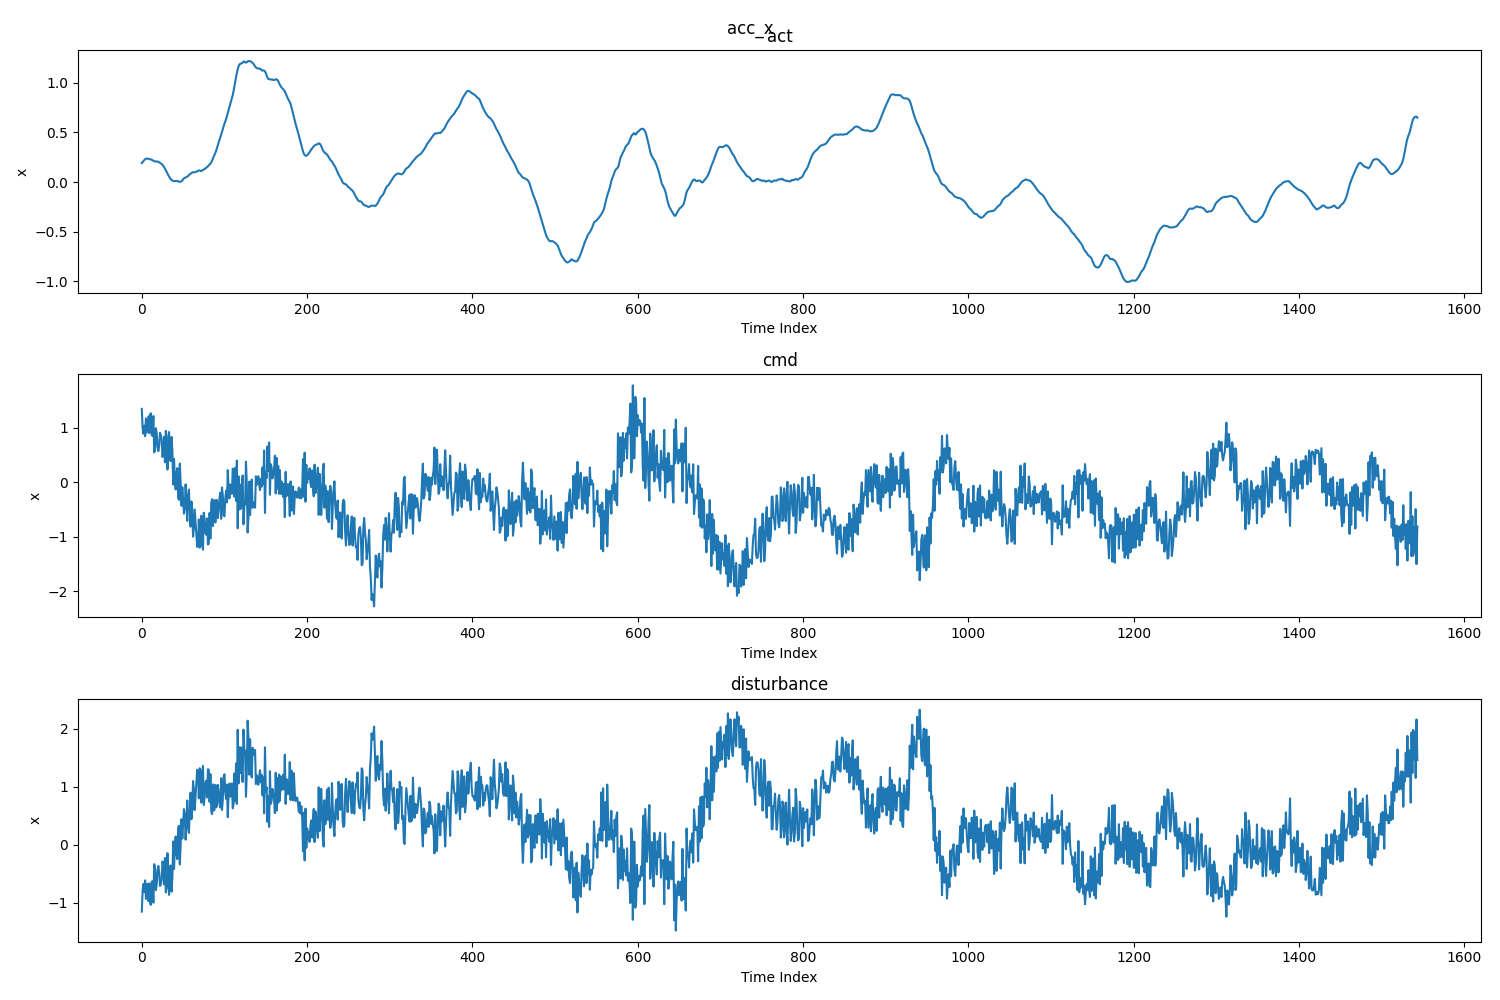
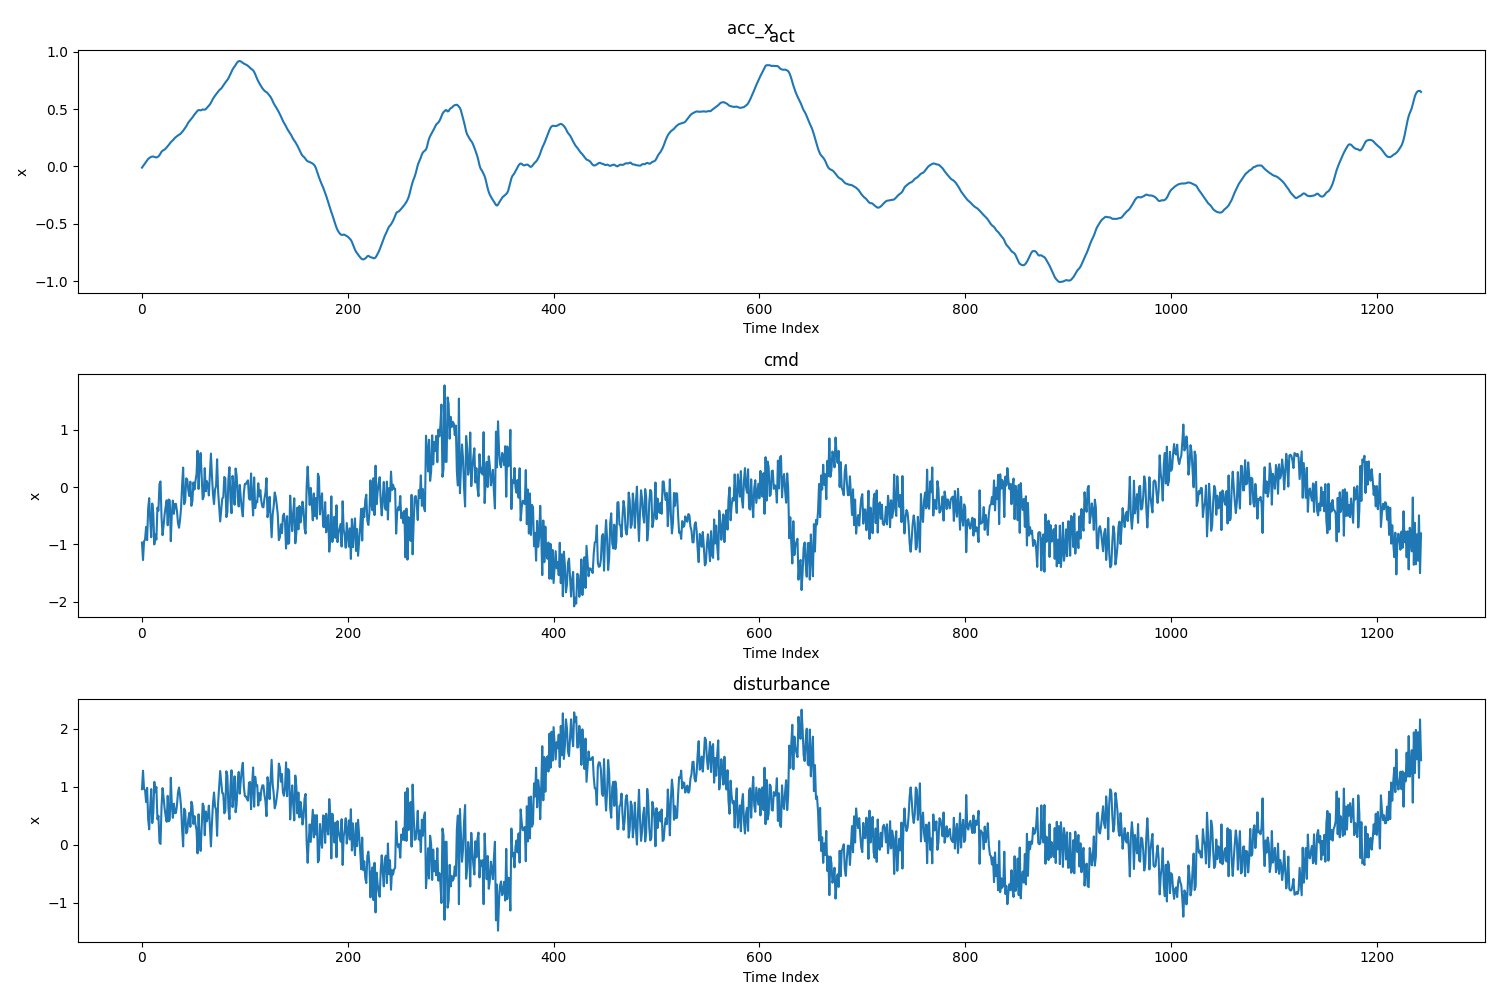
README.md

diff --git a/GP/gp_advanced/simulation/test_tune_controller_gp.py b/GP/gp_advanced/simulation/test_tune_controller_gp.py
@@ -15,9 +15,9 @@ from test_jax_utils import *
 from test_gp_utils import *
 from test_policy import policy
 
-# dynamics_type = 'ideal'
+dynamics_type = 'ideal'
 # dynamics_type = 'noisy'
-dynamics_type = 'gp'
+# dynamics_type = 'gp'
 
 optimizer = 'scipy'
 # optimizer = 'custom_gd'
@@ -191,7 +191,13 @@ def setup_future_reward_func(file_path1, file_path2, file_path3, dynamics_type='
         Performs Gradient Descent
         '''
         states, weights = initialize_sigma_points(X)
-        reward = 0
+        kx = policy_params[0]
+        kv = policy_params[1]
+        w1 = 5
+        w2 = 1
+        # reward = 0 + w1 * (kx-7)**2 + w2 * (kv-4)**2
+        reward = 0 + w1 * (kx)**2 + w2 * (kv)**2
+        # reward = 0
         def body(h, inputs):
             '''
             Performs UT-EC with 6 states
@@ -314,6 +320,9 @@ ax_acc[2].plot( disturbance_means2[2,:], 'r--' )
 ax_acc[0].set_ylabel('X')
 ax_acc[1].set_ylabel('Y')
 ax_acc[2].set_ylabel('Z')
+w1 = 0.2
+w2 = 0.05
+plt. savefig(f'gain_tuning/plots/trajectory_wx{w1}_wv{w2}.png')
 # plt.show()
 
 # params_optimized = train_policy_jaxscipy(state_vector, params_init, gp_train_x, gp_train_y)
@@ -349,7 +358,7 @@ ax.legend()
 ax_acc[0].legend()
 ax_acc[1].legend()
 ax_acc[2].legend()
-
+plt.savefig(f"gain_tuning/plots/component_wx{w1}_wv{w2}.png")
 plt.show()
 
 

diff --git a/GP/gp_advanced/simulation/tanh_slope_plots/tanh.py b/GP/gp_advanced/simulation/tanh_slope_plots/tanh.py
@@ -6,10 +6,10 @@ e = np.linspace(-5, 5, 400)
 
 # Control parameters
 # U_max = 0.2*9.81  # Maximum control value
-U_max = 1
+U_max = 6*0.681
 # k_values = [0.5, 1, 1.5, 2, 2.5, 3, 3.5, 4, 4.5]  # Different k values for illustration
 # k_values = np.linspace(0.01,1,10 )
-k_values = [1]
+k_values = [0.286]
 # Plot the control output for different k values
 plt.figure(figsize=(12, 8))
 
@@ -18,9 +18,9 @@ for k in k_values:
     plt.plot(e, u, label=f'$k = {k}$')
 
 # plt.title('Effect of Different k Values on tanh-based Control')
-plt.title('tanh with slope = 0.5097')
-plt.xlabel('Error Signal (e)')
-plt.ylabel('Control Output (u)')
+plt.title(f'tanh with slope = {k_values[0]}')
+plt.xlabel('Input Acc (m/s^2)')
+plt.ylabel('a*tanh(kx)')
 plt.grid(True)
 # plt.ylim(-1,1)
 plt.legend()

diff --git a/GP/gp_advanced/load_gp.py b/GP/gp_advanced/load_gp.py
@@ -30,14 +30,14 @@ plot_path = dataset_path + 'testset_plots/'
 gp_x_file = 'gp_model_x_norm5_clipped_moredata.pkl'
 gp_y_file = 'gp_model_y_norm5_clipped_moredata.pkl'
 gp_z_file = 'gp_model_z_norm5_clipped_moredata.pkl'
-with open(model_path+gp_x_file, 'rb') as f:
+with open(model_path+gp_y_file, 'rb') as f:
     opt_posterior = pickle.load(f)
 
 factor = 5
 
 x = jnp.load(npy_data_path + 'training_input.npy')
-y = jnp.load(npy_data_path + 'training_disturbance_x.npy')
-disturbance_x = jnp.load(npy_data_path + 'test_disturbance_x.npy')
+y = jnp.load(npy_data_path + 'training_disturbance_y.npy')
+disturbance_x = jnp.load(npy_data_path + 'test_disturbance_y.npy')
 #wind_disturbance_x = jnp.load(home_path + 'wind_disturbance_x.npy')
 # plt.figure()
 # plt.plot(disturbance_x)

diff --git a/GP/gp_advanced/acc_cmd.py b/GP/gp_advanced/acc_cmd.py
@@ -55,8 +55,8 @@ save = True
 # center_y = 0
 # kx = 14
 # kv = 7.4
-kx = 14.0
-kv = 7.4
+kx = 7
+kv = 4
 m = 0.681
 g = 9.81
 

diff --git a/README.md b/README.md
@@ -4,9 +4,12 @@
 2. SSH xavier and `cd albus/rover_(tab complete)` and `docker compose up -d`
 3. `ros2 launch all_launch px4.launch.py` on xavier
 ## On Xavier
-3. To record circle data, `ros2 launch trajectory_driver circle_simple.launch.py`
-4. To record figure8 data, `ros2 launch trajectory_driver figureeight.launch.py`
-5. `cd colcon_ws/src/`
+1. Use tmux to divide the terminal window to three panes
+2. First pane: `vim colcon_ws/src/trajectory_driver/trajectory_driver/circle_simple.py` change parameters such as radius, center coordinate, angular velocity and height
+3. Second pane: `vim colcon_ws/src/trajectory_driver/launch/circle_simple.launch.py`. in the first code block after `-o`, change desired file name to the same parameters as previous step. r = radius, w = angular velocity, c = center, h = height, kxv = gains, delete `fanoff` if needed.
+4. Similar steps for figure8
+4. To record circle data, `ros2 launch trajectory_driver circle_simple.launch.py`
+5. To record figure8 data, `ros2 launch trajectory_driver figureeight.launch.py` 
 
 # Gaussian Process and Simulation
-See GP/gp_advanced/README.md for more info.
+See GP/gp_advanced/README.md for detailed walkthrough.
